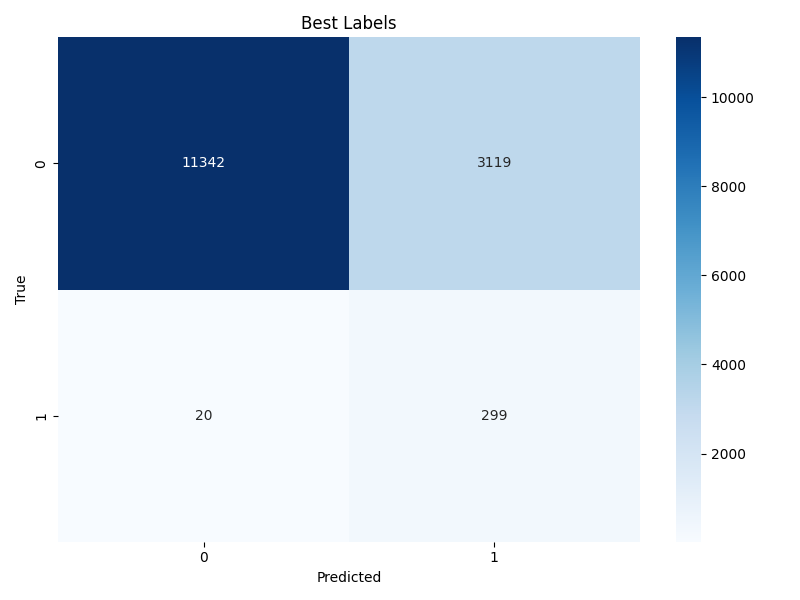
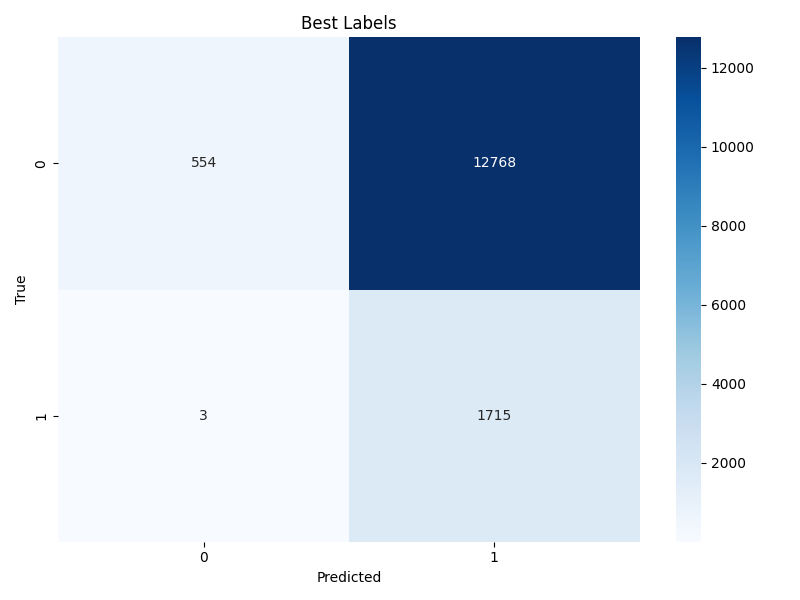
Update model and training

diff --git a/Featurizer/from_smiles.py b/Featurizer/from_smiles.py
@@ -5,38 +5,38 @@ from sklearn.preprocessing import StandardScaler
 from Featurizer.node_features import get_node_features
 from Featurizer.edge_features import get_edge_features
 from Featurizer.mol_features import get_molecular_features
-# from Featurizer.normalization_utils import MolFeatureNormalizer, NodeFeatureNormalizer
+from Featurizer.normalization_utils import MolFeatureNormalizer, NodeFeatureNormalizer
 
-df = pd.read_csv('C:/Users/suman/OneDrive/Bureau/Internship_Study/GNN_On_OdorPrediction/data/OdorSmiles_Updated.csv', encoding='ISO-8859-1')
+df = pd.read_csv('C:/Users/suman/OneDrive/Bureau/Internship_Study/GNN_On_OdorPrediction/data/Without_Saturation_CAS_SMILES.csv', encoding='ISO-8859-1')
 
-# # Fit the normalizers
-# mol_feats = []
-# node_feats = []
+# Fit the normalizers
+mol_feats = []
+node_feats = []
 
-# # Initialize normalizers
-# mol_norm = MolFeatureNormalizer()
-# node_norm = NodeFeatureNormalizer(continuous_indices=[0, 1, 2, 3, 4, 5, 8])  # Define indices of features to normalize
+# Initialize normalizers
+mol_norm = MolFeatureNormalizer()
+node_norm = NodeFeatureNormalizer(continuous_indices=[0, 1, 2, 3, 4, 5, 8])  # Define indices of features to normalize
 
-# # Function to fit normalizers on the dataset
-# def fit_normalizers(smiles_list):
-#     mol_feats = []
-#     node_feats = []
+# Function to fit normalizers on the dataset
+def fit_normalizers(smiles_list):
+    mol_feats = []
+    node_feats = []
 
-#     # Collect all molecular and node features from the dataset
-#     for smi in smiles_list:
-#         mol = Chem.MolFromSmiles(smi)
-#         if mol is None:
-#             continue
-#         mol_feats.append(get_molecular_features(mol))
-#         node_feats.append(get_node_features(mol))
+    # Collect all molecular and node features from the dataset
+    for smi in smiles_list:
+        mol = Chem.MolFromSmiles(smi)
+        if mol is None:
+            continue
+        mol_feats.append(get_molecular_features(mol))
+        node_feats.append(get_node_features(mol))
 
-#     # Fit the normalizers
-#     mol_norm.fit(mol_feats)
-#     node_norm.fit(node_feats)
+    # Fit the normalizers
+    mol_norm.fit(mol_feats)
+    node_norm.fit(node_feats)
 
-# # Fit normalizers on the full dataset of SMILES
-# smiles_list = df['SMILES'].values
-# fit_normalizers(smiles_list)
+# Fit normalizers on the full dataset of SMILES
+smiles_list = df['SMILES'].values
+fit_normalizers(smiles_list)
 
 def from_smiles(smiles: str, with_hydrogen: bool = False, kekulize: bool = False):
 
@@ -50,12 +50,12 @@ def from_smiles(smiles: str, with_hydrogen: bool = False, kekulize: bool = False
         Chem.Kekulize(mol)
 
     node_feat = get_node_features(mol)
-    # node_feat = node_norm.transform(node_feat)  # Normalize node features
+    node_feat = node_norm.transform(node_feat)  # Normalize node features
 
     edge_index, edge_attr = get_edge_features(mol, num_nodes=node_feat.size(0))
 
     mol_feat = get_molecular_features(mol)
-    # mol_feat = mol_norm.transform(mol_feat)  # Normalize molecular features
+    mol_feat = mol_norm.transform(mol_feat)  # Normalize molecular features
 
     data = Data(
         x=node_feat, 

diff --git a/train_utils/main.py b/train_utils/main.py
@@ -21,15 +21,15 @@ rd_logger = RDLogger.logger()
 rd_logger.setLevel(RDLogger.ERROR)
 
 def main():
-    df = pd.read_csv('C:/Users/suman/OneDrive/Bureau/Internship_Study/GNN_On_OdorPrediction/data/OdorSmiles_Updated.csv', encoding='ISO-8859-1')
+    df = pd.read_csv('C:/Users/suman/OneDrive/Bureau/Internship_Study/GNN_On_OdorPrediction/data/Without_Saturation_CAS_SMILES.csv', encoding='ISO-8859-1')
     smiles = df["SMILES"].values
     labels_df = df.drop(columns=["SMILES", "cas_number"])
-    valid_descriptors = labels_df.loc[:, labels_df.sum() > 30].columns
+    valid_descriptors = labels_df.loc[:, labels_df.sum() > 5].columns
     labels = labels_df[valid_descriptors].values
 
     pos_counts = (labels == 1).sum(axis=0)
     neg_counts = (labels == 0).sum(axis=0)
-    pos_weights = torch.tensor(neg_counts / (pos_counts + 1e-6), dtype=torch.float32)
+    pos_weights = torch.tensor((neg_counts / (pos_counts + 1e-6)) * 0.4, dtype=torch.float32)
 
     device = torch.device("cuda" if torch.cuda.is_available() else "cpu")
 
@@ -53,6 +53,6 @@ def main():
             if epoch == 1 or epoch % 10 == 0:
                 acc, f1, prec, rec = evaluate(model, val_loader, device, valid_descriptors)
                 print(f"Validation Acc: {acc:.4f} | F1: {f1:.4f} | Precision: {prec:.4f} | Recall: {rec:.4f}")
-
+            
 if __name__ == "__main__":
     main()

diff --git a/train_utils/train_eval.py b/train_utils/train_eval.py
@@ -19,7 +19,7 @@ def train(model, loader, device, optimizer, criterion, epoch):
         optimizer.step()
 
         total_loss += loss.item()
-        preds = (torch.sigmoid(output) > 0.3).cpu().numpy()
+        preds = (torch.sigmoid(output) > 0.2).cpu().numpy()
         all_preds.append(preds)
         all_labels.append(labels.cpu().numpy())
 
@@ -29,12 +29,12 @@ def train(model, loader, device, optimizer, criterion, epoch):
 
 def evaluate(model, loader, device, valid_descriptors):
     model.eval()
-    all_preds, all_labels = [], []
+    all_preds, all_labels, all_probs = [], [], []
 
     with torch.no_grad():
         for data, labels in loader:
             data, labels = data.to(device), labels.to(device)
-            preds = (torch.sigmoid(model(data)) > 0.3).cpu().numpy()
+            preds = (torch.sigmoid(model(data)) > 0.2).cpu().numpy()
             all_preds.append(preds)
             all_labels.append(labels.cpu().numpy())
 

diff --git a/GNN_Model/gcn_model.py b/GNN_Model/gcn_model.py
@@ -27,7 +27,7 @@ class MLPClassifier(nn.Module):
         self.bn2 = nn.BatchNorm1d(hidden_dims[1])
 
         self.dropout = nn.Dropout(0.40)
-        self.out = nn.Linear(hidden_dims[1], 163)
+        self.out = nn.Linear(hidden_dims[1], 277)
 
     def forward(self, x):
         x = F.relu(self.bn1(self.fc1(x)))
@@ -57,7 +57,7 @@ class OdorClassifier(nn.Module):
         self.readout4 = ReadoutLayer()
 
         # MLP Classifier
-        self.mlp = MLPClassifier(282 + 10, mlp_dims, 163)
+        self.mlp = MLPClassifier(282 + 10, mlp_dims, 277)
 
     def forward(self, data):
         x, edge_index, mol_features, batch = data.x, data.edge_index, data.mol_features, data.batch
@@ -75,7 +75,7 @@ class OdorClassifier(nn.Module):
         r4 = self.readout4(x4, batch)
 
         x = torch.cat([r1, r2, r3, r4], dim=1)
-        
+
         # Get the batch size from x
         batch_size = x.size(0)
         

diff --git a/train_utils/config.py b/train_utils/config.py
@@ -1,5 +1,5 @@
 USE_FOCAL = False
-NUM_EPOCHS = 300
+NUM_EPOCHS = 100
 BATCH_SIZE = 32
 LEARNING_RATE = 0.001
 N_SPLITS = 5
